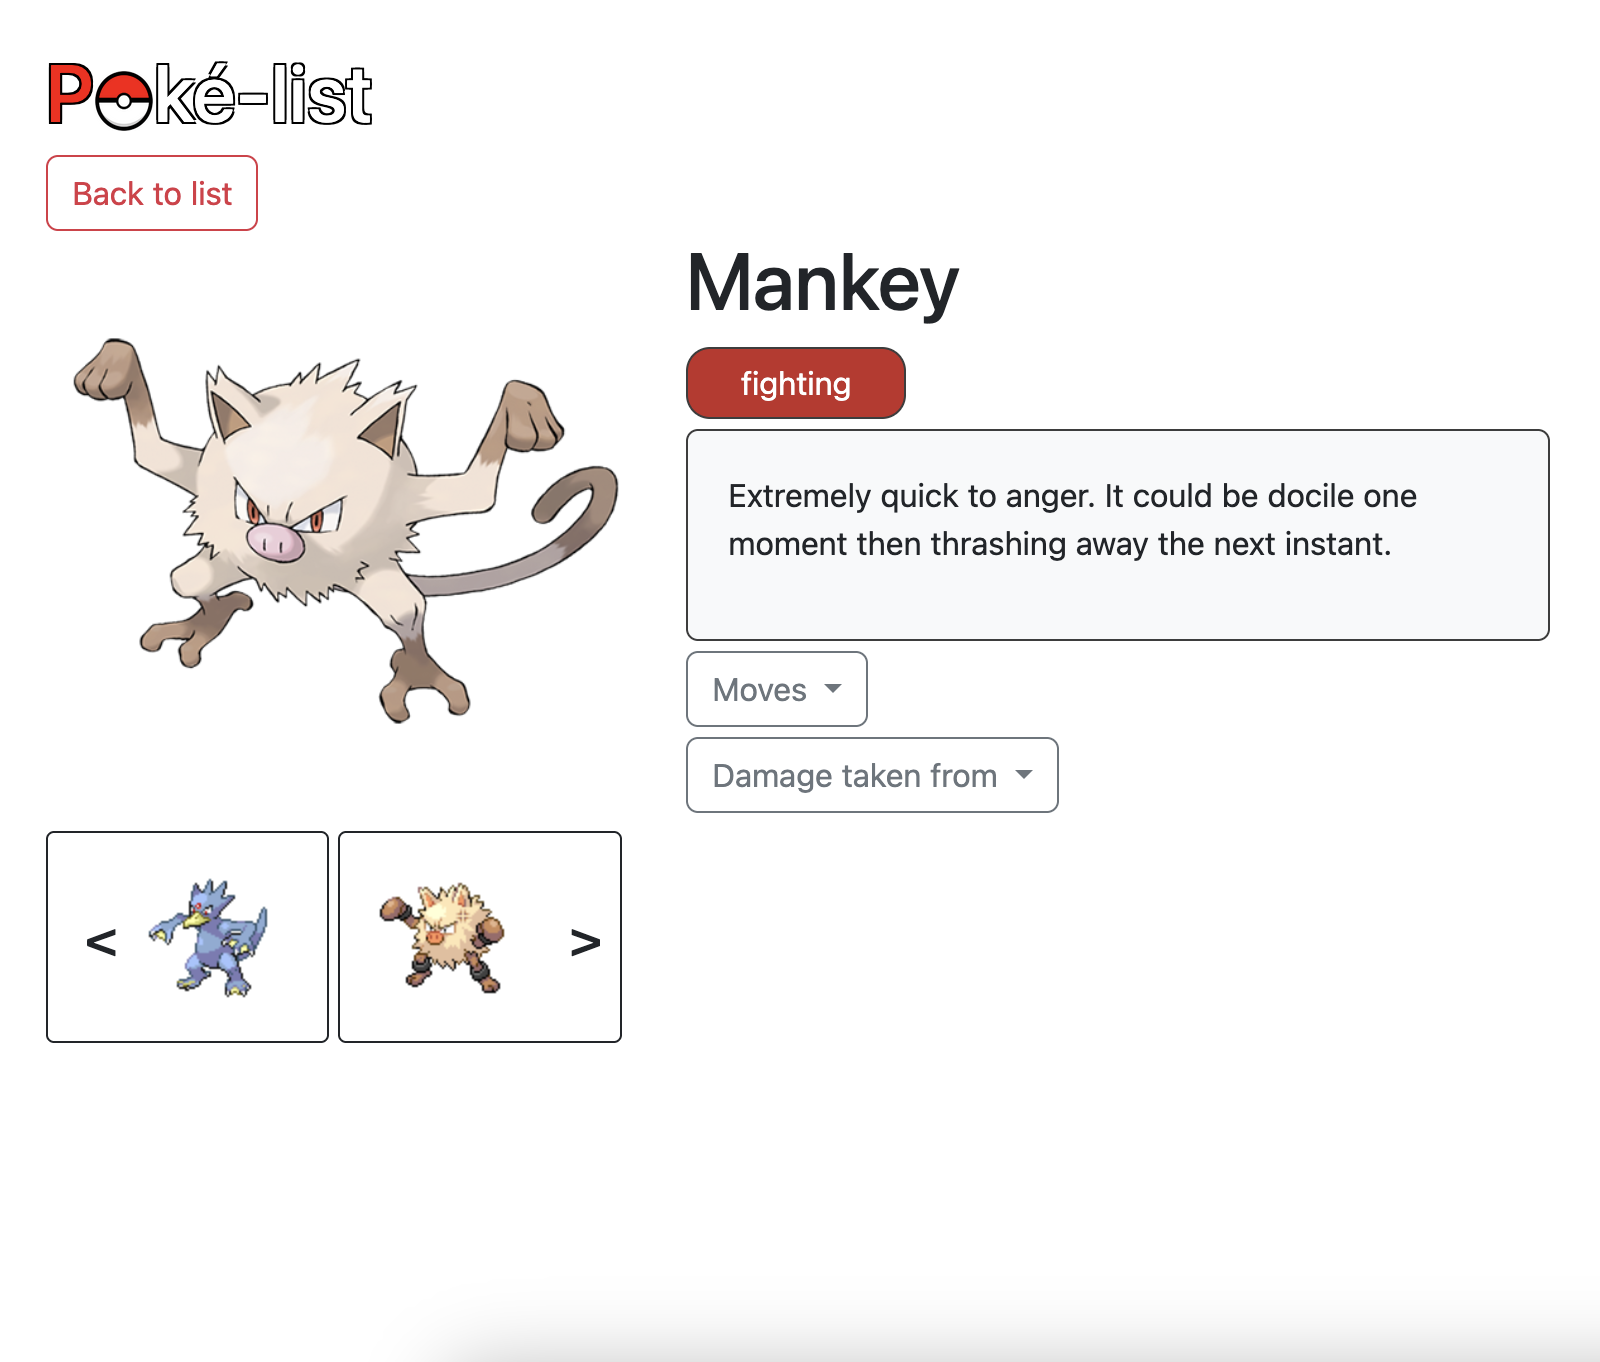
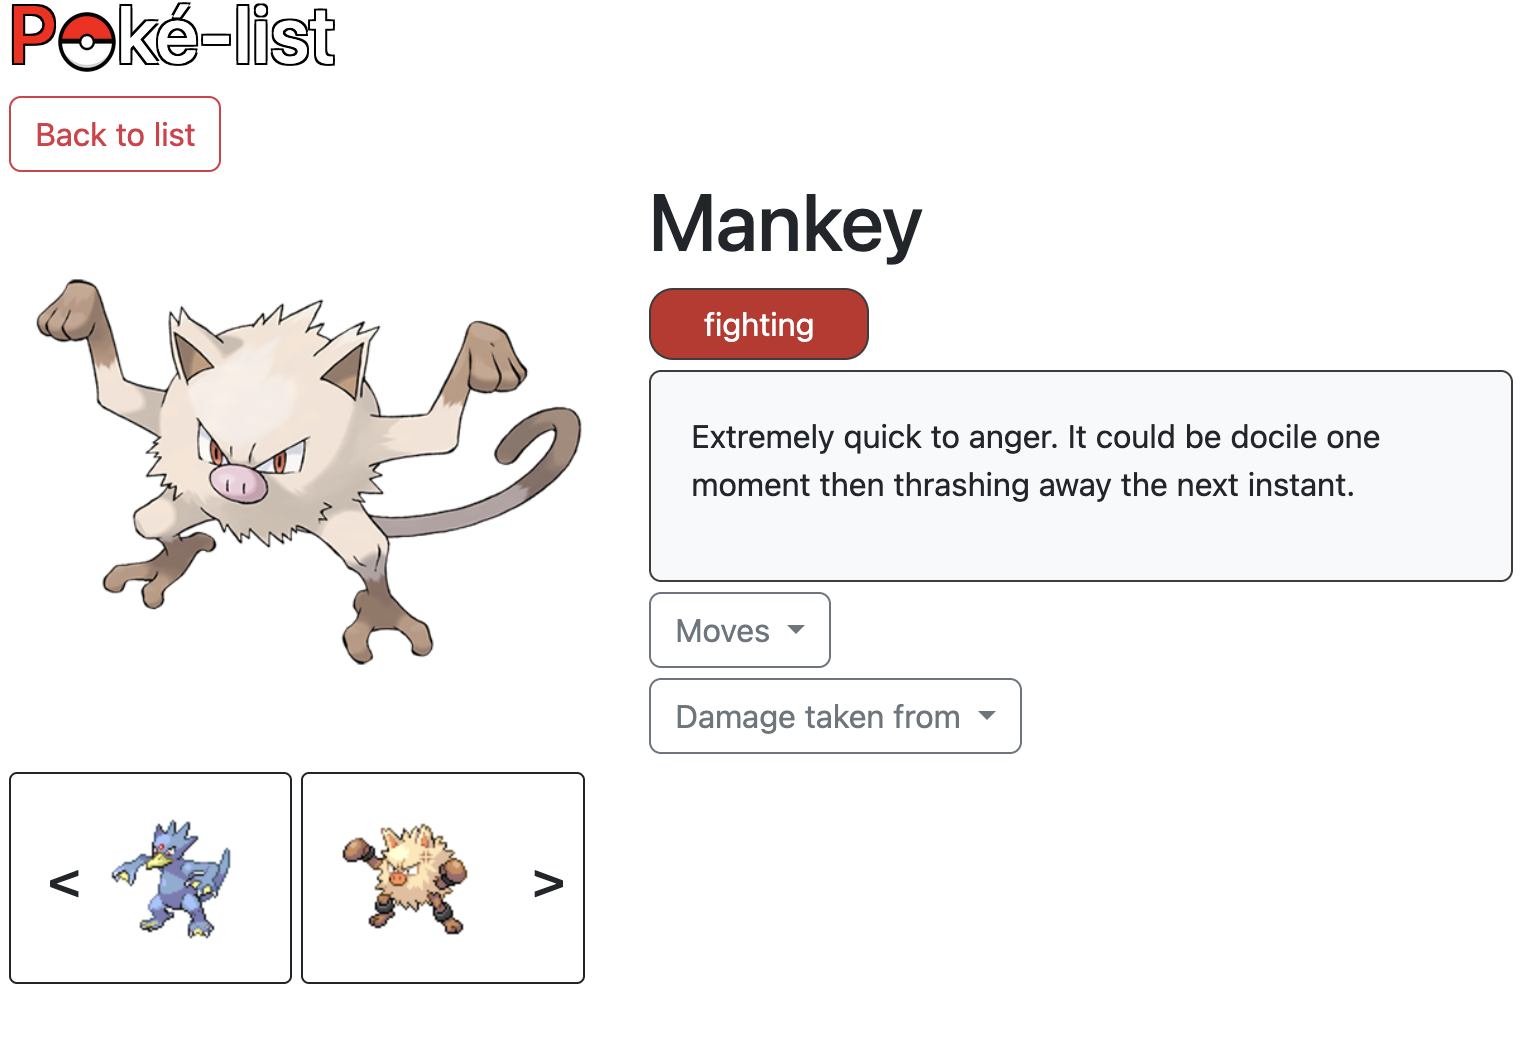
Added modal script and modal into projects.
Cropped two images.

diff --git a/projects.html b/projects.html
@@ -78,7 +78,8 @@
     Current progress image (Hovering over a date shows what hours are available):
   </p>
   <div class="project-text responsive-image-width project-image">
-    <img class="img-fluid" src="resources/images/tattoo-booking.png" alt="Tattoo booking website image">
+    <img class="img-fluid" src="resources/images/tattoo-booking.png" alt="Tattoo booking website image"
+         data-bs-toggle="modal" data-bs-target="#imageModal" onclick="openImageModal(this)">
   </div>
   <p class="project-text">
     The admin GUI is currently in development and as such, changes a lot. So I would rather not post an image of it at this moment.
@@ -126,19 +127,22 @@
     List page:
   </p>
   <div class="project-text responsive-image-width project-image">
-    <img class="img-fluid" src="resources/images/poke-list.png" alt="Pokémon list">
+    <img class="img-fluid" src="resources/images/poke-list.png" alt="Pokémon list"
+         data-bs-toggle="modal" data-bs-target="#imageModal" onclick="openImageModal(this)">
   </div>
   <p class="project-text">
     Filtered page with filter display:
   </p>
   <div class="project-text responsive-image-width project-image">
-    <img class="img-fluid" src="resources/images/poke-list-type-filter.png" alt="Filtered Pokémon list">
+    <img class="img-fluid" src="resources/images/poke-list-type-filter.png" alt="Filtered Pokémon list"
+         data-bs-toggle="modal" data-bs-target="#imageModal" onclick="openImageModal(this)">
   </div>
   <p class="project-text">
     Individual Pokémon page:
   </p>
   <div class="project-text responsive-image-width project-image">
-    <img class="img-fluid" src="resources/images/poke-list-individual.png" alt="Individual Pokémon information">
+    <img class="img-fluid" src="resources/images/poke-list-individual.png" alt="Individual Pokémon information"
+         data-bs-toggle="modal" data-bs-target="#imageModal" onclick="openImageModal(this)">
   </div>
 
   <hr class="hr-cyan">
@@ -171,7 +175,8 @@
     Completed advent of code page:
   </p>
   <div class="project-text responsive-image-width project-image">
-    <img class="img-fluid" src="resources/images/advent-of-code-2024.png" alt="Advent of code completion screen">
+    <img class="img-fluid" src="resources/images/advent-of-code-2024.png" alt="Advent of code completion screen"
+         data-bs-toggle="modal" data-bs-target="#imageModal" onclick="openImageModal(this)">
   </div>
 
   <hr class="hr-cyan">
@@ -204,10 +209,22 @@
     Gameplay and high score table:
   </p>
   <div class="project-text responsive-image-width project-image">
-    <img class="img-fluid" src="resources/images/snake.png" alt="Snake gameplay">
+    <img class="img-fluid" src="resources/images/snake.png" alt="Snake gameplay"
+         data-bs-toggle="modal" data-bs-target="#imageModal" onclick="openImageModal(this)">
   </div>
   <div class="project-text responsive-image-width project-image">
-    <img class="img-fluid" src="resources/images/snake-high-score.png" alt="Snake high score">
+    <img class="img-fluid" src="resources/images/snake-high-score.png" alt="Snake high score"
+         data-bs-toggle="modal" data-bs-target="#imageModal" onclick="openImageModal(this)">
+  </div>
+</div>
+
+<div class="modal fade" id="imageModal" tabindex="-1" aria-labelledby="imageModalLabel" aria-hidden="true">
+  <div class="modal-dialog modal-dialog-centered modal-lg">
+    <div class="modal-content bg-dark">
+      <div class="modal-body text-center">
+        <img src="" id="modalImage" class="img-fluid" alt="Enlarged image">
+      </div>
+    </div>
   </div>
 </div>
 
@@ -224,5 +241,8 @@
     </svg>
   </a>
 </footer>
+
+<script src="https://cdn.jsdelivr.net/npm/bootstrap@5.3.3/dist/js/bootstrap.bundle.min.js"></script>
+<script src="resources/js/open-modal.js"></script>
 </body>
 </html>

diff --git a/resources/js/open-modal.js b/resources/js/open-modal.js
@@ -1,0 +1,5 @@
+function openImageModal(imgElement) {
+    const modalImg = document.getElementById('modalImage');
+    modalImg.src = imgElement.src;
+    modalImg.alt = imgElement.alt;
+}
